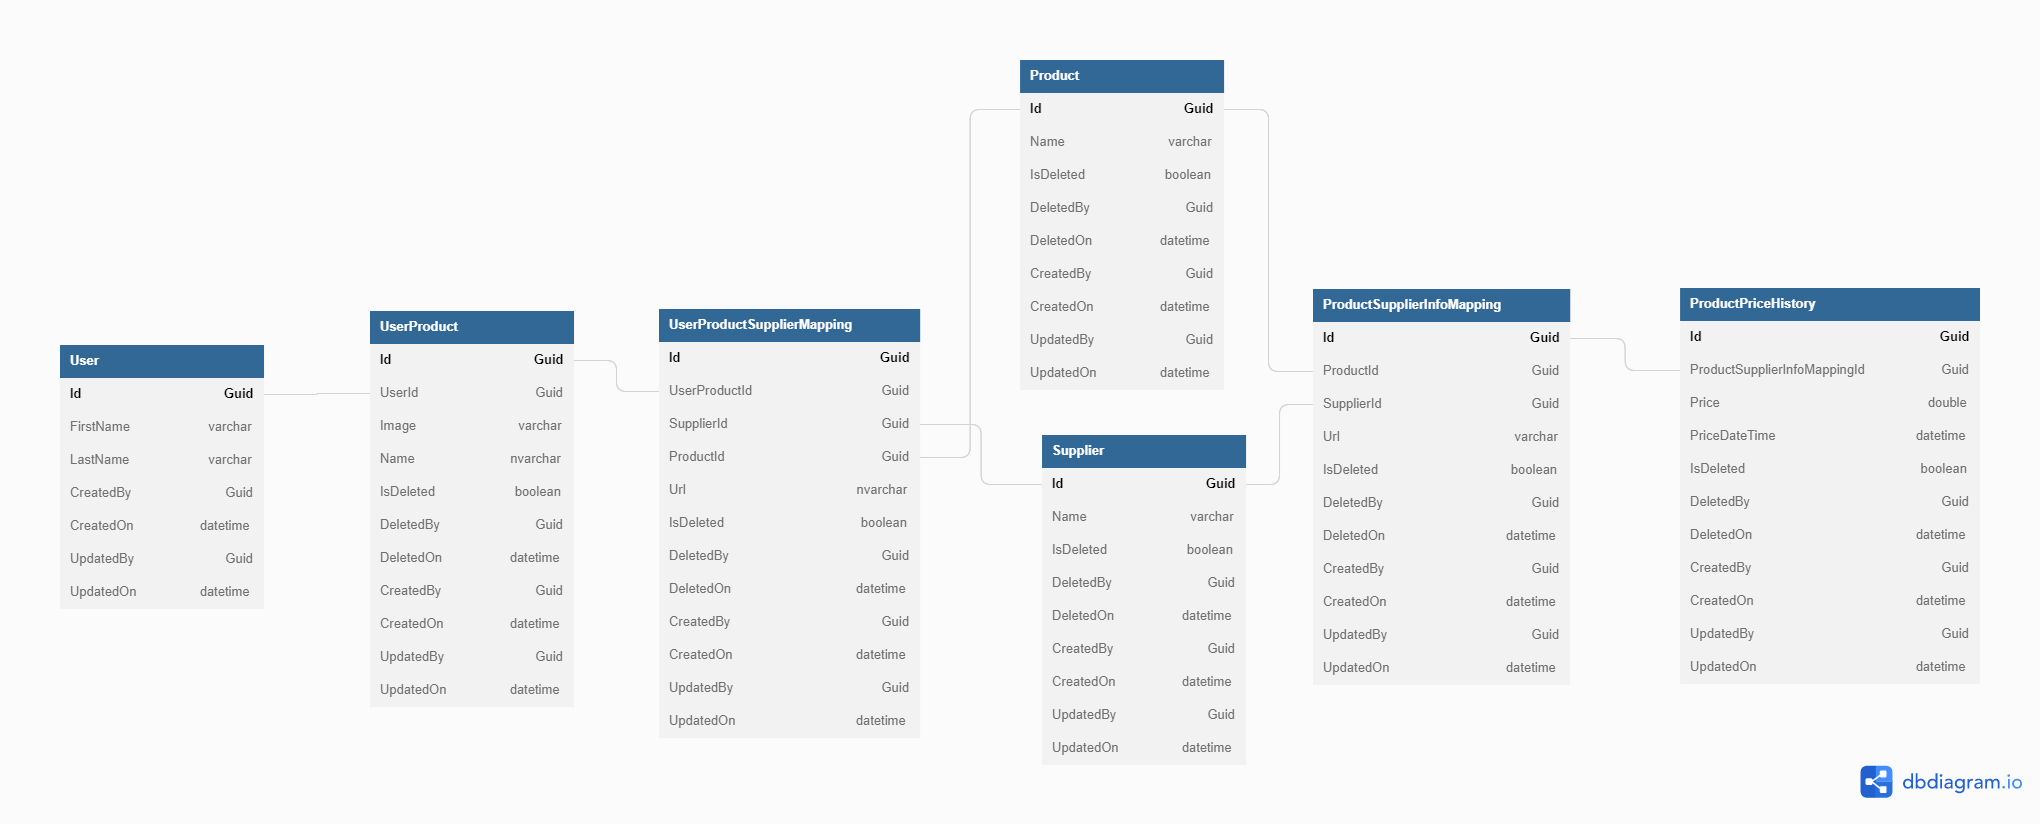
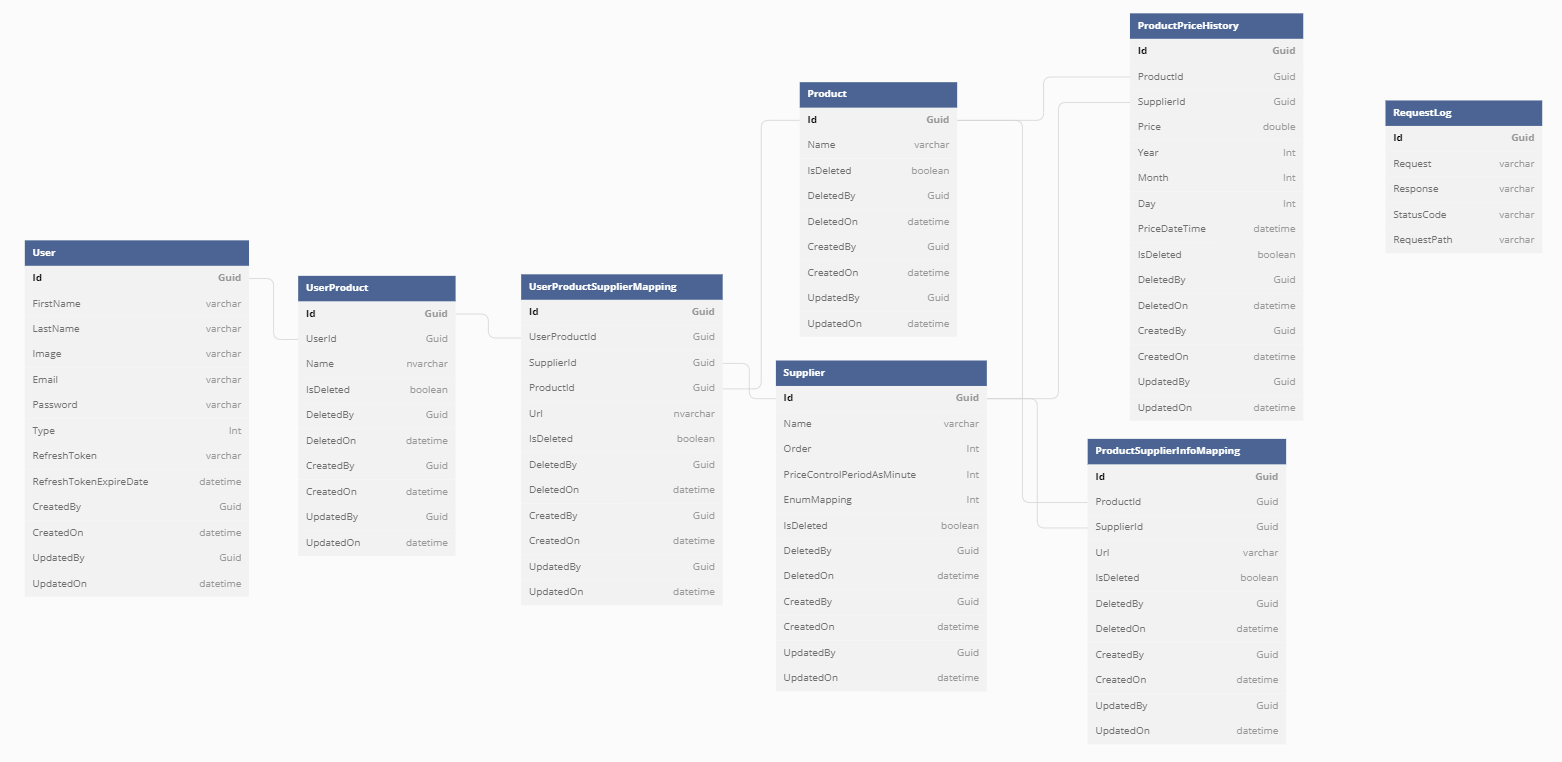
Database diagram updated and unnecessery userid field deleted form userproductmapping entity.

diff --git a/src/PriceHunter.Business/UserProduct/Concrete/UserProductService.cs b/src/PriceHunter.Business/UserProduct/Concrete/UserProductService.cs
@@ -84,7 +84,6 @@ namespace PriceHunter.Business.UserProduct.Concrete
 
             var userProductMappings = _userProductSupplierMappingRepository.Find(p =>
             p.UserProductId == product.Id &&
-            p.UserId == userId &&
             p.IsDeleted == false).ToList();
 
             if (userProductMappings != null && userProductMappings.Any())
@@ -188,8 +187,7 @@ namespace PriceHunter.Business.UserProduct.Concrete
                     {
                         Url = mapping.Url,
                         ProductId = productIdForMap,
-                        SupplierId = mapping.SupplierId,
-                        UserId = userId
+                        SupplierId = mapping.SupplierId
                     });
                 }
             }
@@ -321,7 +319,7 @@ namespace PriceHunter.Business.UserProduct.Concrete
                         Url = mapping.Url,
                         ProductId = productIdForMap,
                         SupplierId = mapping.SupplierId,
-                        UserId = userId
+                        UserProductId = request.Id                       
                     });
                 }
             }
@@ -336,8 +334,7 @@ namespace PriceHunter.Business.UserProduct.Concrete
                 entity = await _userProductRepository.UpdateAsync(entity);
 
                 var dbProductSupplierMappings = _userProductSupplierMappingRepository.Find(p =>
-                    p.UserProductId == request.Id &&
-                    p.UserId == userId &&
+                    p.UserProductId == request.Id && 
                     p.IsDeleted == false).ToList();
 
                 if (dbProductSupplierMappings.Any())
@@ -393,8 +390,7 @@ namespace PriceHunter.Business.UserProduct.Concrete
 
                 var dbProductSupplierMappings = _userProductSupplierMappingRepository.Find(p =>
                     p.UserProductId == entity.Id &&
-                    p.IsDeleted == false &&
-                    p.UserId == userId).ToList();
+                    p.IsDeleted == false).ToList();
 
                 if (dbProductSupplierMappings.Any())
                 {
@@ -452,8 +448,7 @@ namespace PriceHunter.Business.UserProduct.Concrete
             var response = new List<ProductPriceChangesViewModel>();
 
             var userProductMappings = _userProductSupplierMappingRepository.Find(p =>
-               p.UserProductId == userProduct.Id &&
-               p.UserId == userId &&
+               p.UserProductId == userProduct.Id && 
                p.IsDeleted == false).ToList();
 
             if (userProductMappings == null)

diff --git a/src/PriceHunter.Business/TestData/Concrete/TestDataService.cs b/src/PriceHunter.Business/TestData/Concrete/TestDataService.cs
@@ -91,7 +91,6 @@ namespace PriceHunter.Business.TestData.Concrete
                 ProductId = product.Id,
                 SupplierId = suppliers.First().Id,
                 Url = "https://www.amazon.com.tr/Logitech-LIGHTSPEED-kulakl%C4%B1%C4%9F%C4%B1-Teknolojisi-Hoparl%C3%B6rler/dp/B07W6FQ658/?_encoding=UTF8&pd_rd_w=iLJWl&content-id=amzn1.sym.8a1231b3-9dd1-4590-bc25-426daace92a4&pf_rd_p=8a1231b3-9dd1-4590-bc25-426daace92a4&pf_rd_r=30X37DGQX0WYDH83EXPP&pd_rd_wg=mbI3e&pd_rd_r=14e9fb5a-1d11-4240-991f-856395bdcdc7&ref_=pd_gw_crs_zg_bs_12466497031",
-                UserId= user.Id,
                 UserProductId = userProduct.Id
             });
 
@@ -106,7 +105,6 @@ namespace PriceHunter.Business.TestData.Concrete
                 ProductId = product.Id,
                 SupplierId = suppliers.First().Id,
                 Url = "https://www.amazon.com.tr/Logitech-LIGHTSPEED-kulakl%C4%B1%C4%9F%C4%B1-Teknolojisi-Hoparl%C3%B6rler/dp/B07W6FQ658/?_encoding=UTF8&pd_rd_w=iLJWl&content-id=amzn1.sym.8a1231b3-9dd1-4590-bc25-426daace92a4&pf_rd_p=8a1231b3-9dd1-4590-bc25-426daace92a4&pf_rd_r=30X37DGQX0WYDH83EXPP&pd_rd_wg=mbI3e&pd_rd_r=14e9fb5a-1d11-4240-991f-856395bdcdc7&ref_=pd_gw_crs_zg_bs_12466497031",
-                UserId = user.Id,
                 UserProductId = userProduct2.Id
             });
         }

diff --git a/src/PriceHunter.Business/User/Validator/GetTokenContractServiceRequestValidator.cs b/src/PriceHunter.Business/User/Validator/GetTokenContractServiceRequestValidator.cs
@@ -16,11 +16,7 @@ namespace PriceHunter.Business.User.Validator
             RuleFor(request => request.Password)
                 .NotEmpty()
                 .WithMessage(string.Format(ServiceResponseMessage.PROPERTY_REQUIRED, nameof(GetTokenContractServiceRequest.Password)))
-                .MinimumLength(8)
-                .Matches("[A-Z]").WithMessage("'Password' must contain one or more capital letters.")
-                .Matches("[a-z]").WithMessage("'Password' must contain one or more lowercase letters.")
-                .Matches(@"\d").WithMessage("'Password' must contain one or more digits.")
-                .Matches(@"[][""!@$%^&*(){}:;<>,.?/+_=|'~\\-]").WithMessage("'Password' must contain one or more special characters.");
+                .MinimumLength(8);
         }
     }
 }

diff --git a/src/PriceHunter.Model/UserProduct/UserProductSupplierMapping.cs b/src/PriceHunter.Model/UserProduct/UserProductSupplierMapping.cs
@@ -7,7 +7,6 @@ namespace PriceHunter.Model.UserProduct
         public Guid UserProductId { get; set; }
         public Guid SupplierId { get; set; }
         public Guid? ProductId { get; set; }
-        public string Url { get; set; }
-        public Guid UserId { get; set; }
+        public string Url { get; set; } 
     }
 }

diff --git a/src/PriceHunter.Web/Data/Login/GetTokenRequest.cs b/src/PriceHunter.Web/Data/Login/GetTokenRequest.cs
@@ -8,7 +8,9 @@ namespace PriceHunter.Web.Data.Login
         [Required]
         [EmailAddress]
         public string Email { get; set; }
+
         [Required]
+        [MinLength(8)]
         [DataType(DataType.Password)]
         public string Password { get; set; }
     }

diff --git a/src/PriceHunter.Web/Data/Login/RefreshTokenRequest.cs b/src/PriceHunter.Web/Data/Login/RefreshTokenRequest.cs
@@ -1,7 +1,10 @@
-namespace PriceHunter.Web.Data.Login
+using System.ComponentModel.DataAnnotations;
+
+namespace PriceHunter.Web.Data.Login
 {
     public class RefreshTokenRequest
     {
+        [Required]
         public string Token { get; set; }
     }
 }

diff --git a/README_DESING.md b/README_DESING.md
@@ -9,6 +9,8 @@ PriceHunter is full scalable, microservice application.
 
 ## Database Diagram
 
+https://dbdiagram.io/d/62ea4d95f31da965e86f8388
+
 ![alt tag](files/images/database_diagram.png) 
 
 ## Project Diagram
